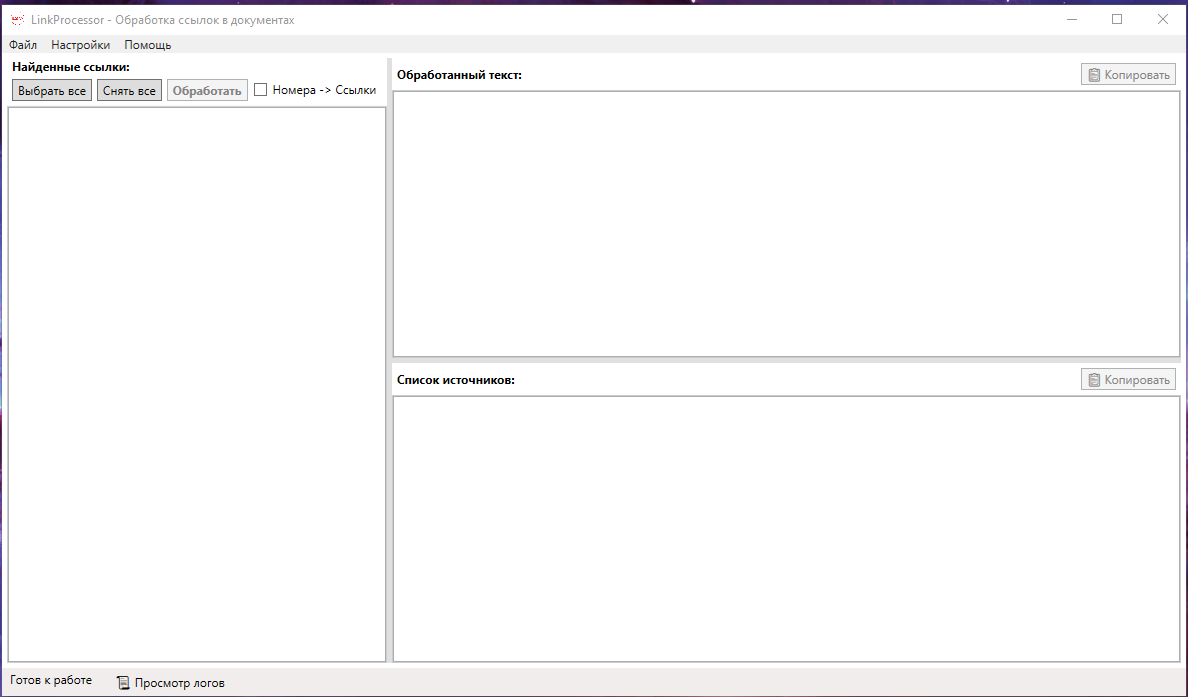
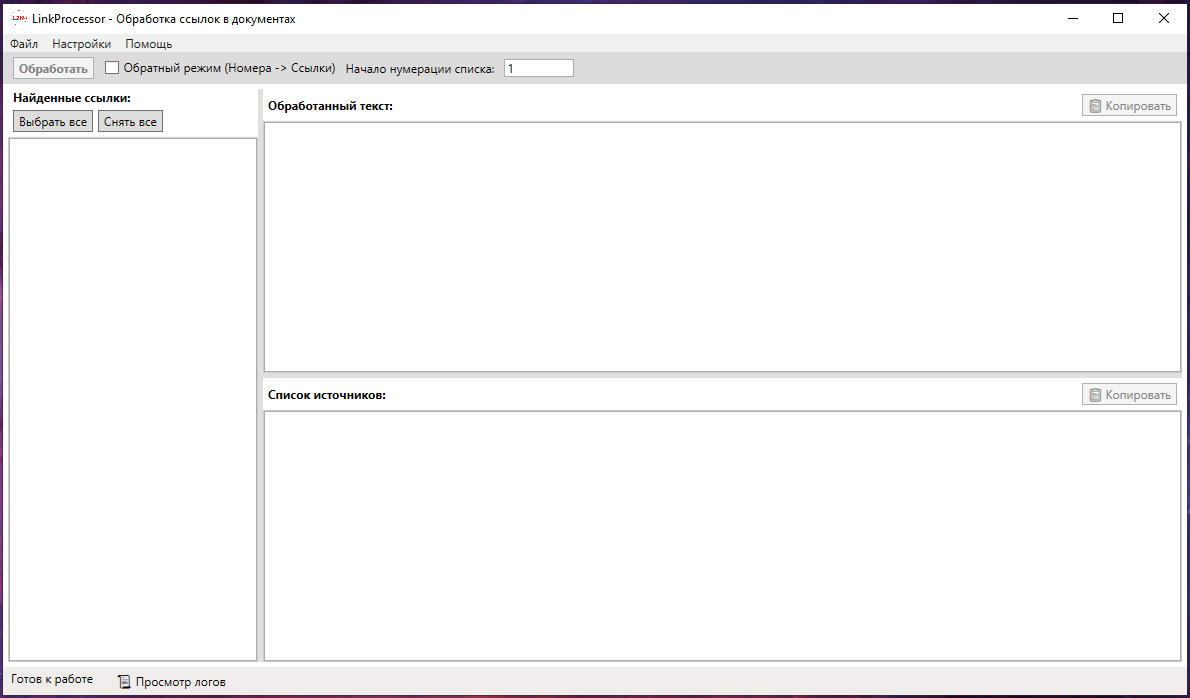
Добавил настройку начала нумерации списка

Changed region(s): [[0.0, 0.0, 1.0, 1.0], [0.436, 0.0, 0.5918, 0.0301]]

diff --git a/LinkProcessor/Views/MainWindow.xaml b/LinkProcessor/Views/MainWindow.xaml
@@ -15,6 +15,7 @@
     <Grid>
         <Grid.RowDefinitions>
             <RowDefinition Height="Auto"/>
+            <RowDefinition Height="Auto"/>
             <RowDefinition Height="*"/>
             <RowDefinition Height="Auto"/>
         </Grid.RowDefinitions>
@@ -43,11 +44,19 @@
                 <MenuItem Header="О программе" Command="{Binding AboutCommand}"/>
             </MenuItem>
         </Menu>
+        
+        <!-- Панель инструментов -->
+        <StackPanel Grid.Row="1" Orientation="Horizontal" Background="Gainsboro">
+            <Button Content="Обработать" Command="{Binding ProcessLinksCommand}" Padding="5,2" FontWeight="Bold" Margin="10,5,5,5"/>
+            <CheckBox Content="Обратный режим (Номера -> Ссылки)" IsChecked="{Binding IsReverseMode}" VerticalAlignment="Center" Margin="5"/>
+            <Label Content="Начало нумерации списка:" VerticalAlignment="Center"></Label>
+            <TextBox Text="{Binding FirstListValue}" Width="70" Margin="5" VerticalAlignment="Center"></TextBox>
+        </StackPanel>
 
         <!-- Основная рабочая область -->
-        <Grid Grid.Row="1" Margin="5">
+        <Grid Grid.Row="2" Margin="5">
             <Grid.ColumnDefinitions>
-                <ColumnDefinition Width="380" MinWidth="380"/>
+                <ColumnDefinition Width="250" MinWidth="200"/>
                 <ColumnDefinition Width="5"/>
                 <ColumnDefinition Width="*" MinWidth="300"/>
             </Grid.ColumnDefinitions>
@@ -59,8 +68,6 @@
                 <StackPanel DockPanel.Dock="Top" Orientation="Horizontal" Margin="0,0,0,5">
                     <Button Content="Выбрать все" Command="{Binding SelectAllLinksCommand}" Padding="5,2" Margin="5,0,5,0"/>
                     <Button Content="Снять все" Command="{Binding DeselectAllLinksCommand}" Padding="5,2" Margin="0,0,5,0"/>
-                    <Button Content="Обработать" Command="{Binding ProcessLinksCommand}" Padding="5,2" FontWeight="Bold" Margin="0,0,5,0"/>
-                    <CheckBox Content="Номера -> Ссылки" IsChecked="{Binding IsReverseMode}" VerticalAlignment="Center"/>
                 </StackPanel>
 
                 <Border BorderBrush="#CCCCCC" BorderThickness="1">
@@ -138,7 +145,7 @@
         </Grid>
 
         <!-- Статус-бар -->
-        <StatusBar Grid.Row="2" Height="28">
+        <StatusBar Grid.Row="3" Height="28">
             <StatusBarItem>
                 <StackPanel Orientation="Horizontal" Margin="5,0,0,0">
                     <TextBlock Text="{Binding StatusText}" Margin="0,0,10,0"/>

diff --git a/LinkProcessor/Services/LinkProcessorService.cs b/LinkProcessor/Services/LinkProcessorService.cs
@@ -107,7 +107,7 @@ namespace LinkProcessor.Services
         /// <summary>
         /// Обрабатывает текст, заменяя ссылки на номера и формируя список источников
         /// </summary>
-        public ProcessingResult ProcessText(string originalText, List<LinkItem> selectedLinks, AppConfig config)
+        public ProcessingResult ProcessText(string originalText, int firstListValue, List<LinkItem> selectedLinks, AppConfig config)
         {
             try
             {
@@ -117,7 +117,7 @@ namespace LinkProcessor.Services
                 // Создаем словарь уникальных ссылок с их номерами
                 var uniqueLinks = selectedLinks
                     .GroupBy(l => l.Url)
-                    .Select((g, index) => new TextLink { Url = g.Key, Number = index + 1, Link = g.First() })
+                    .Select((g, index) => new TextLink { Url = g.Key, Number = index + firstListValue, Link = g.First() })
                     .ToDictionary(x => x.Url, x => x);
 
                 // Заменяем ссылки в тексте на номера
@@ -144,14 +144,14 @@ namespace LinkProcessor.Services
         /// <summary>
         /// Обрабатывает текст в обратном режиме, заменяя номера ссылок в тексте на фактические URL адреса из списка
         /// </summary>
-        public ProcessingResult ProcessTextReverse(string originalText, List<LinkItem> selectedLinks, AppConfig config)
+        public ProcessingResult ProcessTextReverse(string originalText, int firstListValue, List<LinkItem> selectedLinks, AppConfig config)
         {
             try
             {
                 // Создаем словарь уникальных ссылок с их номерами
                 var uniqueLinks = selectedLinks
                     .GroupBy(l => l.Url)
-                    .Select((g, index) => new TextLink { Url = g.Key, Number = index + 1, Link = g.First() })
+                    .Select((g, index) => new TextLink { Url = g.Key, Number = index + firstListValue, Link = g.First() })
                     .ToDictionary(x => x.Url, x => x);
 
                 // Заменяем номера в тексте на ссылки

diff --git a/LinkProcessor/ViewModels/MainViewModel.cs b/LinkProcessor/ViewModels/MainViewModel.cs
@@ -25,6 +25,7 @@ namespace LinkProcessor.ViewModels
         private bool _isReverseMode;
         private string _processedText;
         private string _referenceList;
+        private int _firstListValue = 1;
 
         public MainViewModel()
         {
@@ -76,6 +77,12 @@ namespace LinkProcessor.ViewModels
         {
             get => _isReverseMode;
             set => SetProperty(ref _isReverseMode, value);
+        }
+
+        public int FirstListValue
+        {
+            get => _firstListValue;
+            set => SetProperty(ref _firstListValue, value);
         }
 
         #endregion
@@ -226,13 +233,13 @@ namespace LinkProcessor.ViewModels
 
                     // Обработка текста и формирование списка источников
                     StatusText = "Формирование результатов...";
-                    result = _linkProcessor.ProcessText(_originalText, selectedLinks, config);
+                    result = _linkProcessor.ProcessText(_originalText, _firstListValue, selectedLinks, config);
                 }
                 else
                 {
                     // Обработка текста в обратном режиме (номера -> ссылки)
                     StatusText = "Формирование результатов...";
-                    result = _linkProcessor.ProcessTextReverse(_originalText, selectedLinks, config);
+                    result = _linkProcessor.ProcessTextReverse(_originalText, _firstListValue, selectedLinks, config);
                 }
 
 

diff --git a/README.md b/README.md
@@ -16,6 +16,7 @@
 - Гибкая настройка правил обработки
 - Журнал событий для отслеживания работы приложения
 - Обратный режим работы (номера -> ссылки)
+- Ручная установка начала нумерации
 
 
 ## Использование
@@ -31,6 +32,7 @@
 
 ### 3. Обработка
 - (опционально) Можете выбрать обратный режим работы, если хотите произвести замену номеров на источники в тексте на фактические URL адреса из списка в конце документа. Поиск номеров будет производится по шаблону замены номера.
+- Укажите (при необходимости) номер, с которого следует начинать нумерацию ссылок (работает в обоих режимах)
 - Нажмите кнопку **"Обработать"**
 - Приложение получит названия ссылок
 - Результаты появятся в правой панели 
